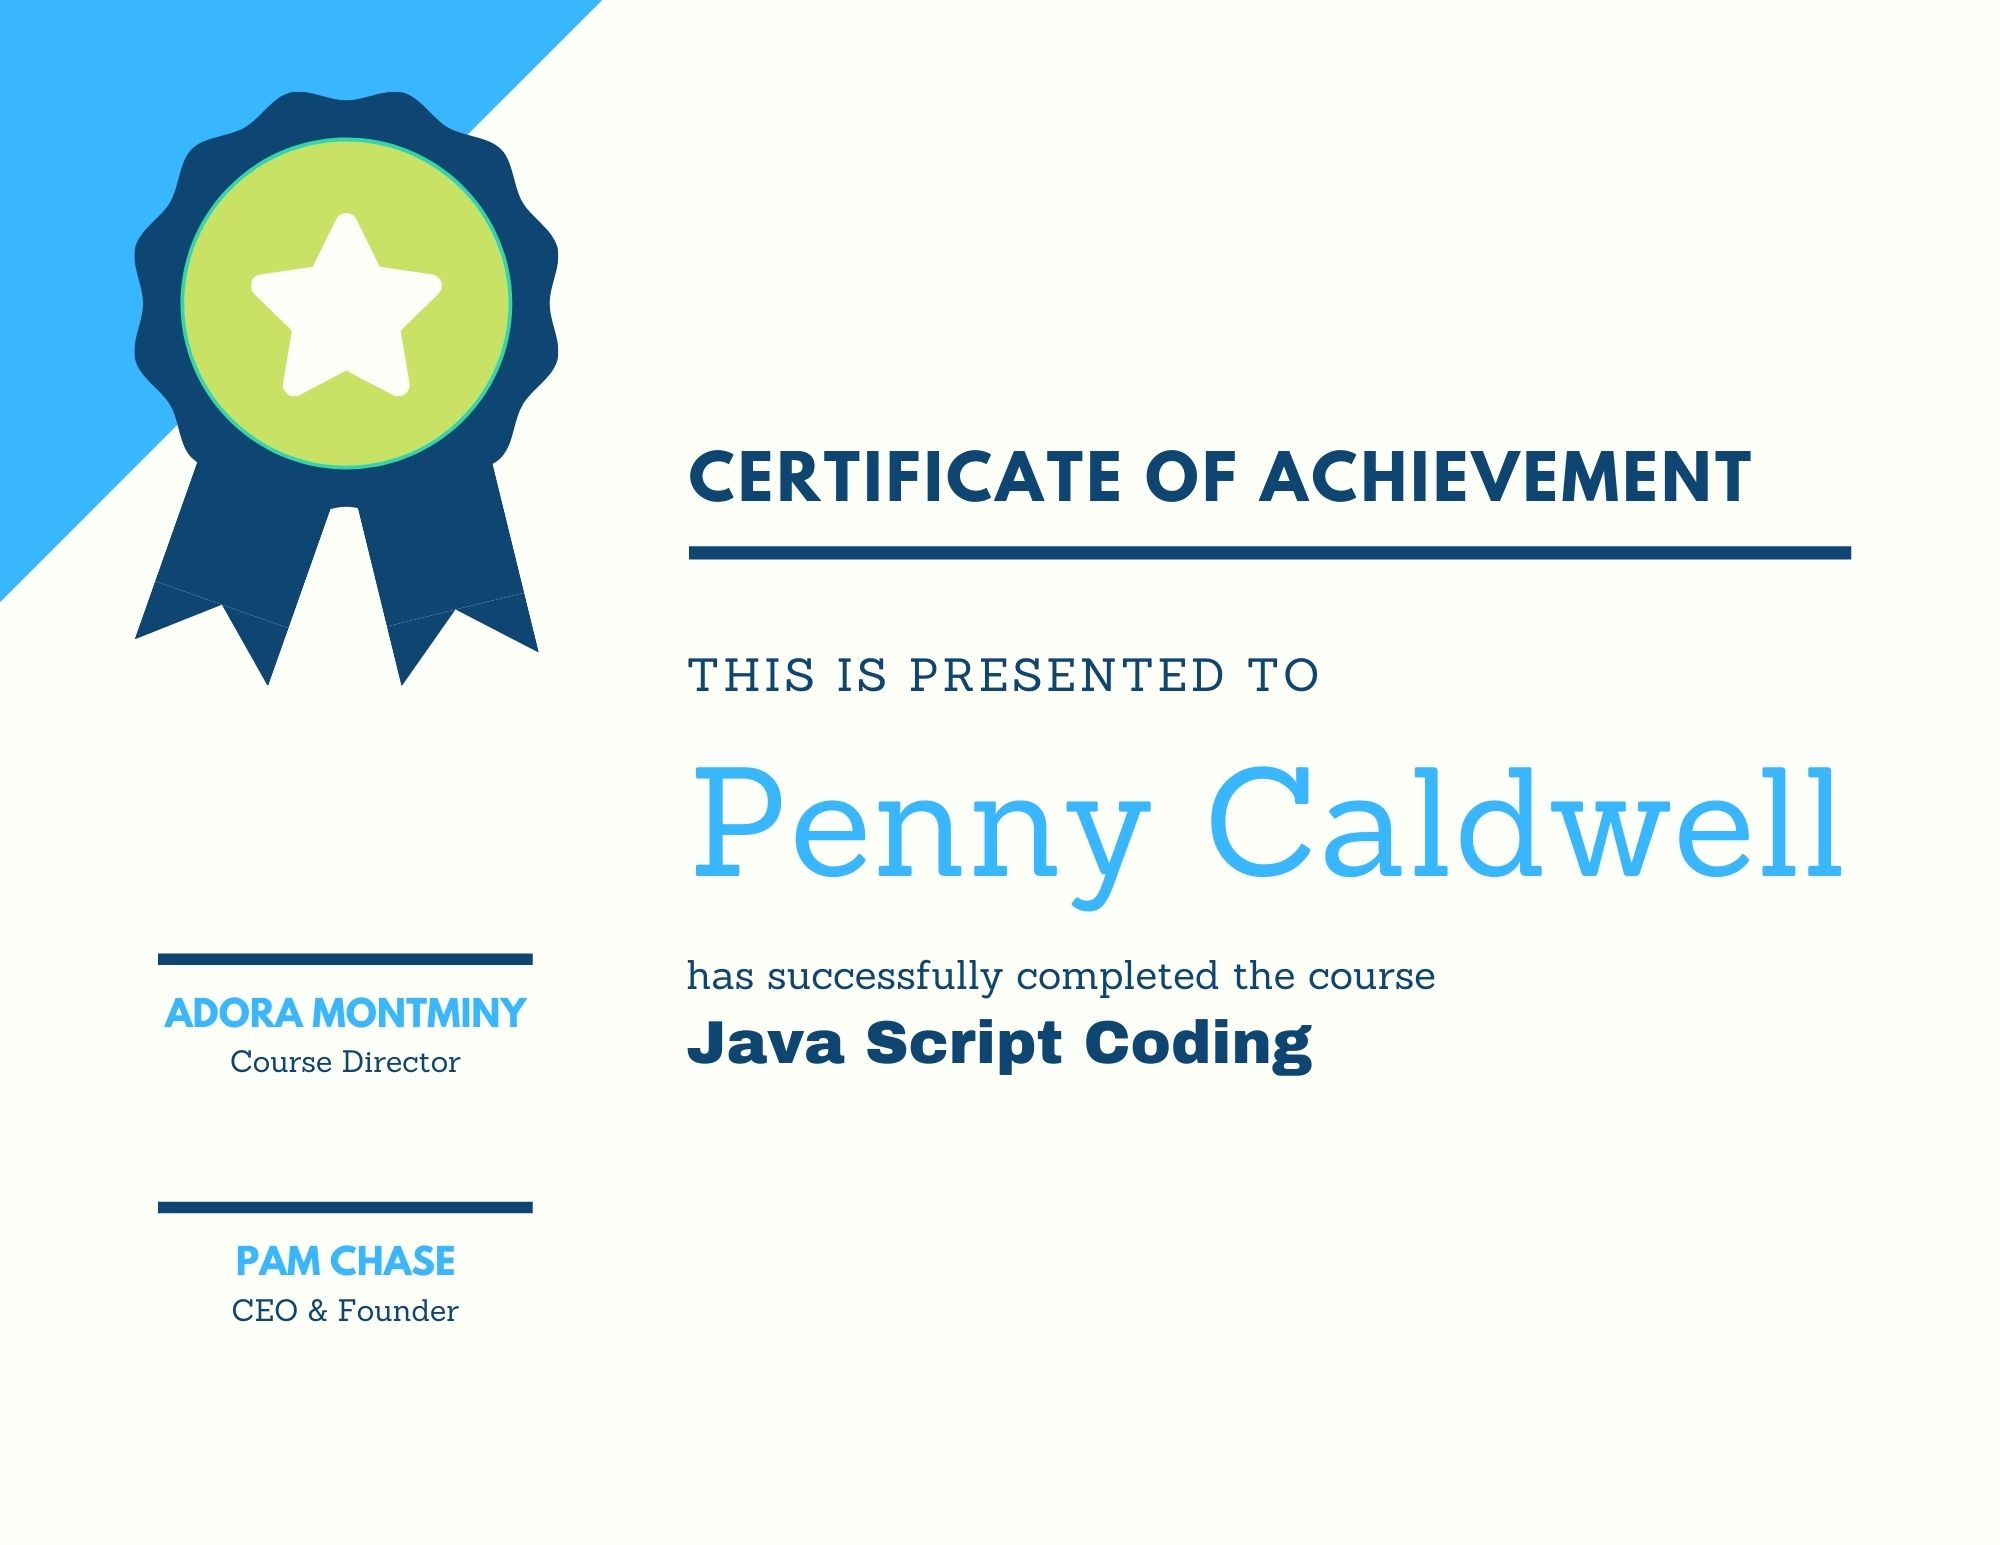
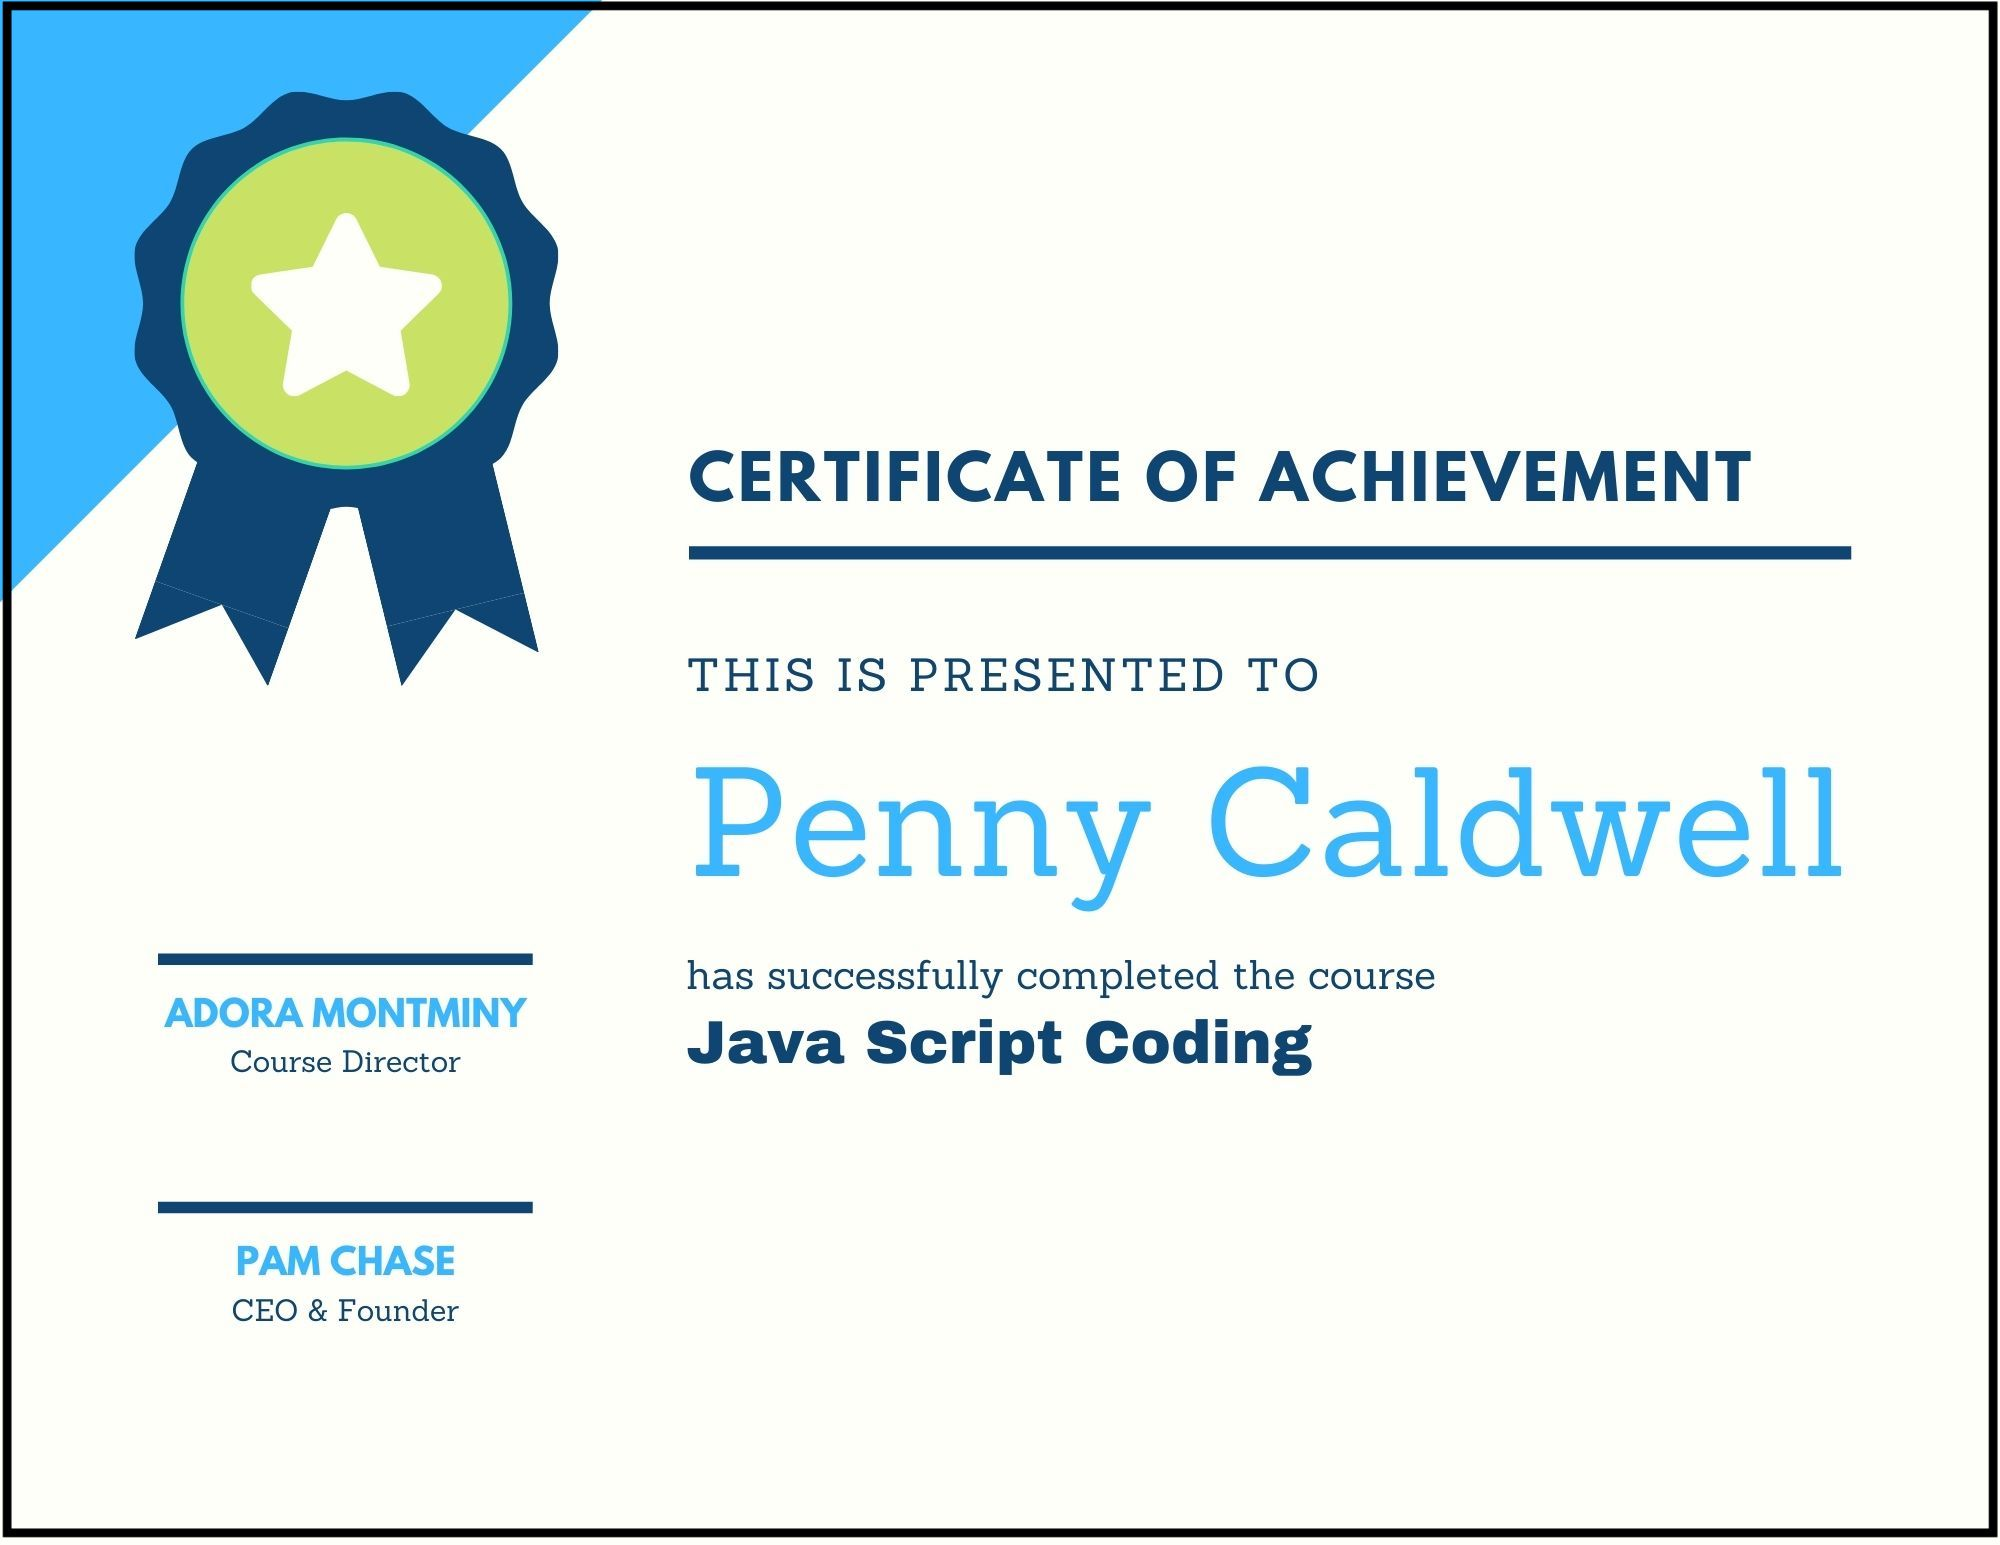
Course detail page

Changed region(s): [[0.0, 0.0, 1.0, 1.0]]

diff --git a/course-detail.html b/course-detail.html
@@ -109,6 +109,24 @@
                 <button type="button" class="btn btn-primary">Register</button>
             </div>
         </div>
+        <div class="row row-content">
+            <div class="col-12 col-sm-6 ">
+                <h2><b>In this course, you will:</b></h2>
+                <ul>
+                    <li>Understand key web programming concepts and how to think like a programmer</li>
+                    <li>Build web applications using JavaScript, HTML, and CSS</li>
+                    <li>Make and code engaging user interactions on web pages</li>
+                    <li>Design, iterate, and implement UI components for web applications</li>
+                    <li>Set up code management tools such as GitHub and start building your peer network</li>
+                    <li>Develop a portfolio to share with potential universities or employers</li>
+                </ul>
+                
+            </div>
+            <div class="col col-sm-6">
+                <img style="height: 100%;" class="w-100" src="img/certificate-ex.jpg" alt="certificate"/>
+            </div>
+           
+        </div>
     </div>
     <!--Footer-->
     <footer class="site-footer">
